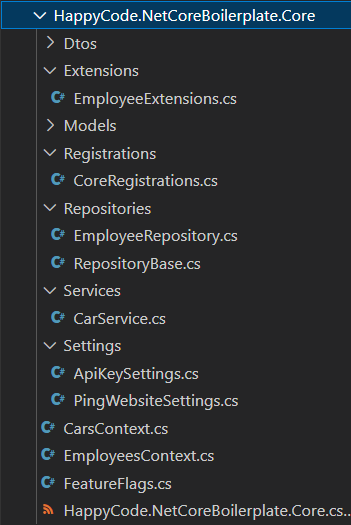
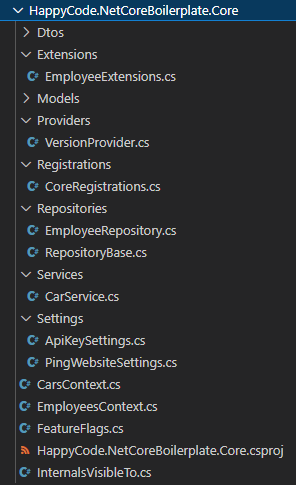
README refresh

Changed region(s): [[0.0, 0.0, 1.0, 0.9897]]

diff --git a/README.md b/README.md
@@ -116,6 +116,7 @@ After successful start of the solution in any of above option, check useful endp
 
 * swagger - <http://localhost:5000/swagger/>
 * health check - <http://localhost:5000/healthz/ready>
+* version - <http://localhost:5000/version>
 
 ### Standalone
 
@@ -183,6 +184,10 @@ Generally it is totally up to you! But in case you do not have any plan, You can
 * Configurations
   * `Serilog` configuration place - [SerilogConfigurator.cs](src/HappyCode.NetCoreBoilerplate.Api/Infrastructure/Configurations/SerilogConfigurator.cs)
   * `Swagger` registration place - [SwaggerRegistration.cs](src/HappyCode.NetCoreBoilerplate.Api/Infrastructure/Registrations/SwaggerRegistration.cs)
+    * Feature flag documentation filter - [FeatureFlagSwaggerDocumentFilter.cs](src/HappyCode.NetCoreBoilerplate.Api/Infrastructure/Filters/FeatureFlagSwaggerDocumentFilter.cs)
+    * Security requirement operation filter - [SecurityRequirementSwaggerOperationFilter.cs](src/HappyCode.NetCoreBoilerplate.Api/Infrastructure/Filters/SecurityRequirementSwaggerOperationFilter.cs)
+* Logging
+  * Custom enricher to have version properties in logs - [VersionEnricher.cs](src/HappyCode.NetCoreBoilerplate.Api/Infrastructure/Logging/VersionEnricher.cs)
 * Simple exemplary API controllers - [EmployeesController.cs](src/HappyCode.NetCoreBoilerplate.Api/Controllers/EmployeesController.cs), [CarsController.cs](src/HappyCode.NetCoreBoilerplate.Api/Controllers/CarsController.cs), [PingsController.cs](src/HappyCode.NetCoreBoilerplate.Api/Controllers/PingsController.cs)
 * Example of BackgroundService - [PingWebsiteBackgroundService.cs](src/HappyCode.NetCoreBoilerplate.Api/BackgroundServices/PingWebsiteBackgroundService.cs)
 
@@ -199,6 +204,8 @@ Generally it is totally up to you! But in case you do not have any plan, You can
 * DbContexts
   * MySQL DbContext - [EmployeesContext.cs](src/HappyCode.NetCoreBoilerplate.Core/EmployeesContext.cs)
   * MsSQL DbContext - [CarsContext.cs](src/HappyCode.NetCoreBoilerplate.Core/CarsContext.cs)
+* Providers
+  * Version provider - [VersionProvider.cs](src/HappyCode.NetCoreBoilerplate.Core/Providers/VersionProvider.cs)
 * Core registrations - [CoreRegistrations.cs](src/HappyCode.NetCoreBoilerplate.Core/Registrations/CoreRegistrations.cs)
 * Exemplary MySQL repository - [EmployeeRepository.cs](src/HappyCode.NetCoreBoilerplate.Core/Repositories/EmployeeRepository.cs)
 * Exemplary MsSQL service - [CarService.cs](src/HappyCode.NetCoreBoilerplate.Core/Services/CarService.cs)
@@ -224,7 +231,8 @@ Generally it is totally up to you! But in case you do not have any plan, You can
   * Fixture with TestServer - [TestServerClientFixture.cs](test/HappyCode.NetCoreBoilerplate.Api.IntegrationTests/Infrastructure/TestServerClientFixture.cs)
   * TestStartup with InMemory databases - [TestStartup.cs](test/HappyCode.NetCoreBoilerplate.Api.IntegrationTests/Infrastructure/TestStartup.cs)
   * Simple data feeders - [EmployeeContextDataFeeder.cs](test/HappyCode.NetCoreBoilerplate.Api.IntegrationTests/Infrastructure/DataFeeders/EmployeeContextDataFeeder.cs), [CarsContextDataFeeder.cs](test/HappyCode.NetCoreBoilerplate.Api.IntegrationTests/Infrastructure/DataFeeders/CarsContextDataFeeder.cs)
-* Exemplary tests - [EmployeesTests.cs](test/HappyCode.NetCoreBoilerplate.Api.IntegrationTests/EmployeesTests.cs), [CarsTests.cs](test/HappyCode.NetCoreBoilerplate.Api.IntegrationTests/CarsTests.cs)
+  * Fakes - [FakePingService.cs](test/HappyCode.NetCoreBoilerplate.Api.IntegrationTests/Infrastructure/Fakes/FakePingService.cs)
+* Exemplary tests - [EmployeesTests.cs](test/HappyCode.NetCoreBoilerplate.Api.IntegrationTests/EmployeesTests.cs), [CarsTests.cs](test/HappyCode.NetCoreBoilerplate.Api.IntegrationTests/CarsTests.cs), [PingsTests.cs](test/HappyCode.NetCoreBoilerplate.Api.IntegrationTests/PingsTests.cs)
 
 ![HappyCode.NetCoreBoilerplate.Api.IntegrationTests](.assets/itests.png "HappyCode.NetCoreBoilerplate.Api.IntegrationTests")
 
@@ -232,13 +240,17 @@ Generally it is totally up to you! But in case you do not have any plan, You can
 
 [HappyCode.NetCoreBoilerplate.Api.UnitTests](test/HappyCode.NetCoreBoilerplate.Api.UnitTests)
 
-* Exemplary tests - [EmployeesControllerTests.cs](test/HappyCode.NetCoreBoilerplate.Api.UnitTests/Controllers/EmployeesControllerTests.cs)
-* Unit tests of `ApiKeyAuthorizationFilter.cs` - [ApiKeyAuthorizationFilterTests.cs](test/HappyCode.NetCoreBoilerplate.Api.UnitTests/Infrastructure/Filters/ApiKeyAuthorizationFilterTests.cs)
+* Exemplary tests - [EmployeesControllerTests.cs](test/HappyCode.NetCoreBoilerplate.Api.UnitTests/Controllers/EmployeesControllerTests.cs), [CarsControllerTests.cs](test/HappyCode.NetCoreBoilerplate.Api.UnitTests/Controllers/CarsControllerTests.cs), [PingsControllerTests.cs](test/HappyCode.NetCoreBoilerplate.Api.UnitTests/Controllers/PingsControllerTests.cs)
+* API Infrastructure Unit tests
+  * [ApiKeyAuthorizationFilterTests.cs](test/HappyCode.NetCoreBoilerplate.Api.UnitTests/Infrastructure/Filters/ApiKeyAuthorizationFilterTests.cs)
+  * [ValidateModelStateFilterTests.cs](test/HappyCode.NetCoreBoilerplate.Api.UnitTests/Infrastructure/Filters/ValidateModelStateFilterTests.cs)
 
 [HappyCode.NetCoreBoilerplate.Core.UnitTests](test/HappyCode.NetCoreBoilerplate.Core.UnitTests)
 
 * Extension methods to mock `DbSet` faster - [EnumerableExtensions.cs](test/HappyCode.NetCoreBoilerplate.Core.UnitTests/Extensions/EnumerableExtensions.cs)
 * Exemplary tests - [EmployeeRepositoryTests.cs](test/HappyCode.NetCoreBoilerplate.Core.UnitTests/Repositories/EmployeeRepositoryTests.cs), [CarServiceTests.cs](test/HappyCode.NetCoreBoilerplate.Core.UnitTests/Services/CarServiceTests.cs)
+* Providers tests
+  * [VersionProviderTests.cs](test/HappyCode.NetCoreBoilerplate.Core.UnitTests/Providers/VersionProviderTests.cs) with [HappyCode.NetCoreBoilerplate.Core.UnitTests.runsettings](test/HappyCode.NetCoreBoilerplate.Core.UnitTests/HappyCode.NetCoreBoilerplate.Core.UnitTests.runsettings)
 
 ![HappyCode.NetCoreBoilerplate.Core.UnitTests](.assets/utests.png "HappyCode.NetCoreBoilerplate.Core.UnitTests")
 
